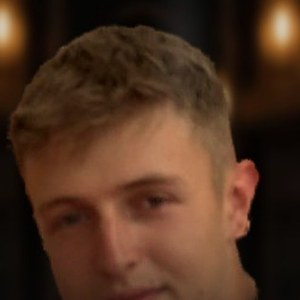
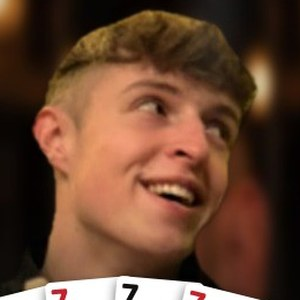
Jonny-Karte mit neuem Foto
Claude-Session: https://claude.ai/code/session_01AgPGxtPjejjny7eWLZxXgy

diff --git a/tafel/index.html b/tafel/index.html
@@ -793,7 +793,7 @@ function drawOverview(a){
 /* ---------- player cards: one by one after the seat draw ---------- */
 const CARDS={"tim":"karten/tim.jpg","niklas":"karten/niklas.jpg","niki":"karten/niklas.jpg","nico":"karten/nico.jpg","manu":"karten/manu.jpg","domi m":"karten/magg.jpg","domi c":{img:"karten/domi-c.jpg",fg:"karten/domi-c-fg.png"},"oli":{img:"karten/oli.jpg",fg:"karten/oli-fg.png"},"olli":{img:"karten/oli.jpg",fg:"karten/oli-fg.png"},"magg":"karten/magg.jpg","philipp":{img:"karten/philipp.jpg",fg:"karten/philipp-fg.png"},"phillip":{img:"karten/philipp.jpg",fg:"karten/philipp-fg.png"},"phil":{img:"karten/philipp.jpg",fg:"karten/philipp-fg.png"},"jonny":{img:"karten/jonny.jpg",fg:"karten/jonny-fg.png"},"jonas":{img:"karten/jonny.jpg",fg:"karten/jonny-fg.png"},"johnny":{img:"karten/jonny.jpg",fg:"karten/jonny-fg.png"},"benno":"karten/benno.jpg"};
 const AV={"tim":"tim","niklas":"niklas","niki":"niklas","nico":"nico","manu":"manu","domi m":"magg","magg":"magg","domi c":"domi-c","oli":"oli","olli":"oli","philipp":"philipp","phillip":"philipp","phil":"philipp","jonny":"jonny","jonas":"jonny","johnny":"jonny","benno":"benno"};
-function avOf(n){const k=n.toLowerCase(),o=S.avatars&&S.avatars[k];if(o)return o;if(AV[k])return "karten/av/"+AV[k]+".jpg?v=3";const c=cardOf(n);return null;}
+function avOf(n){const k=n.toLowerCase(),o=S.avatars&&S.avatars[k];if(o)return o;if(AV[k])return "karten/av/"+AV[k]+".jpg?v=5";const c=cardOf(n);return null;}
 function avHtml(n,cls){const u=avOf(n);return '<span class="'+(cls||"av")+(u?"":" none")+'">'+(u?'<img src="'+u+'" alt="">':esc((n||"?").trim().charAt(0).toUpperCase()))+'</span>';}
 Object.values(AV).forEach(x=>{const i=new Image();i.src="karten/av/"+x+".jpg";});
 const cardOf=n=>(S.cards&&S.cards[n.toLowerCase()])||CARDS[n.toLowerCase()]||null;
@@ -801,7 +801,7 @@ Object.values(CARDS).forEach(u=>[].concat(typeof u==="string"?u:[u.img,u.fg]).fo
 function cardHtml(c){
   if(!c)return null;const o=typeof c==="string"?{img:c}:c;
   const bokeh=Array.from({length:14},(_,j)=>'<i style="--x:'+(Math.random()*100).toFixed(0)+'%;--y:'+(Math.random()*95).toFixed(0)+'%;--s:'+(6+Math.random()*26).toFixed(0)+'px;--d:'+(3+Math.random()*5).toFixed(1)+'s;--w:'+(Math.random()*-6).toFixed(1)+'s"></i>').join("");
-  const V=/^karten\//.test(o.img)?"?v=4":"";return '<img src="'+o.img+V+'" alt="">'+(o.fg?'<div class="anim">'+bokeh+'<b class="smk"></b></div><img class="fg" src="'+o.fg+V+'" alt="">':'')+'<span class="shine"></span>';
+  const V=/^karten\//.test(o.img)?"?v=5":"";return '<img src="'+o.img+V+'" alt="">'+(o.fg?'<div class="anim">'+bokeh+'<b class="smk"></b></div><img class="fg" src="'+o.fg+V+'" alt="">':'')+'<span class="shine"></span>';
 }
 let intro=null;
 function introShow(list,done){

diff --git a/spieler/index.html b/spieler/index.html
@@ -49,7 +49,7 @@ h1{font-size:clamp(34px,6vw,64px);margin:44px 0 6px;letter-spacing:-.02em;backgr
 </main>
 <div class="ov" id="ov" hidden><button class="x" id="x" aria-label="Schließen">✕</button><button class="nav l" id="pl" aria-label="Zurück">‹</button><div id="bigw"></div><button class="nav r" id="nr" aria-label="Weiter">›</button></div>
 <script>
-const K="../tafel/karten/",V="?v=4";
+const K="../tafel/karten/",V="?v=5";
 const P=[
  {n:"Tim",img:"tim.jpg"},{n:"Niklas",img:"niklas.jpg"},{n:"Nico",img:"nico.jpg"},{n:"Manu",img:"manu.jpg"},
  {n:"Magg",img:"magg.jpg"},{n:"Oli",img:"oli.jpg",fg:"oli-fg.png"},{n:"Domi C",img:"domi-c.jpg",fg:"domi-c-fg.png"},{n:"Philipp",img:"philipp.jpg",fg:"philipp-fg.png"},
